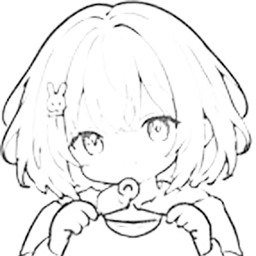
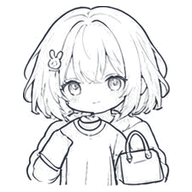
feat: 子分类图标全量替换少女线稿（35 枚）+ 老数据双条件迁移
- 最终版子分类总图（SVG 内嵌位图 1438x1885）→ sharp 管线切片 35 枚：
  行/列墨迹投影定位 + 人工行界定界（标签文字剥离）、白转透明、
  按墨迹紧裁等比铺满 192 画布 94%（人物铺满画框不留白）
- iconRegistry GIRL_KEYS 28→59 键（并入 35 子键）；seed 35 个子分类默认值
  svg:* → girl:*（人情往来子项/利息等无总图项保留线性图标）
- store 迁移扩展：子分类名称+旧默认图标双条件（svg:bowl 午餐/晚餐靠名称区分；
  存储字段 children——首版误写 subs 未生效已修），用户自定义图标不动
- 修复本轮误删上轮已提交的 28 枚 PNG（git checkout 恢复后 59 枚共存）
- 单测 408 全绿（girl 断言更新至 59 键+迁移表）；实机验证：记一笔宫格
  子项少女图全量生效，老数据迁移通过；APP_VERSION 3.0→3.1 + package.json 对齐

diff --git a/src/seed.js b/src/seed.js
@@ -10,16 +10,16 @@ function cat(name, icon, color, children = [], custom = false) {
 export function defaultCategories() {
   return {
     expense: [
-      // v3.1 主分类默认少女线稿风（public/girl/<key>.png）；子分类与无匹配项保留 emoji / 线性图标
-      cat('餐饮', "girl:food", PAL[0], [['早餐', "svg:croissant"], ['午餐', "svg:bowl"], ['晚餐', "svg:bowl"], ['饮料', "svg:cup"], ['零食', "svg:cookie"], ['水果', "svg:apple"]]),
-      cat('购物', "girl:shop", PAL[1], [['服饰鞋包', "svg:shoe"], ['日用百货', "svg:roll"], ['数码家电', "svg:phone"], ['美妆护肤', "svg:lipstick"], ['网购', "svg:box"]]),
-      cat('交通出行', "girl:transport", PAL[2], [['公交地铁', "svg:train"], ['打车', "svg:transport"], ['加油', "svg:fuel"], ['火车机票', "svg:travel"], ['停车', "svg:parking"]]),
-      cat('居家生活', "girl:home", PAL[3], [['房租', "svg:home"], ['水电燃气', "svg:droplet"], ['物业', "svg:building"], ['通讯', "svg:signal"], ['装修', "svg:tools"]]),
-      cat('娱乐休闲', "girl:game", PAL[4], [['电影', "svg:film"], ['游戏', "svg:game"], ['旅行', "svg:beach"], ['订阅', "svg:tv"], ['运动', "svg:ball"]]),
-      cat('医疗健康', "girl:medical", PAL[5], [['挂号门诊', "svg:medical"], ['药品', "svg:pill"], ['体检', "svg:stethoscope"]]),
-      cat('教育学习', "girl:edu", PAL[6], [['书籍', "svg:books"], ['培训', "svg:edu"], ['学费', "svg:edu"], ['知识付费', "svg:bill"]]),
+      // v3.1 主分类+子分类默认少女线稿风（public/girl/<key>.png）；无总图项（人情往来子项/利息等）保留线性图标
+      cat('餐饮', "girl:food", PAL[0], [['早餐', "girl:breakfast"], ['午餐', "girl:lunch"], ['晚餐', "girl:dinner"], ['饮料', "girl:drink"], ['零食', "girl:snack"], ['水果', "girl:fruit"]]),
+      cat('购物', "girl:shop", PAL[1], [['服饰鞋包', "girl:clothes"], ['日用百货', "girl:daily"], ['数码家电', "girl:digital"], ['美妆护肤', "girl:beauty"], ['网购', "girl:online"]]),
+      cat('交通出行', "girl:transport", PAL[2], [['公交地铁', "girl:bus"], ['打车', "girl:taxi"], ['加油', "girl:fuel"], ['火车机票', "girl:train"], ['停车', "girl:parking"]]),
+      cat('居家生活', "girl:home", PAL[3], [['房租', "girl:rent"], ['水电燃气', "girl:utility"], ['物业', "girl:property"], ['通讯', "girl:comm"], ['装修', "girl:renovate"]]),
+      cat('娱乐休闲', "girl:game", PAL[4], [['电影', "girl:movie"], ['游戏', "girl:game"], ['旅行', "girl:travel"], ['订阅', "girl:subscribe"], ['运动', "girl:sport"]]),
+      cat('医疗健康', "girl:medical", PAL[5], [['挂号门诊', "girl:clinic"], ['药品', "girl:pill"], ['体检', "girl:checkup"]]),
+      cat('教育学习', "girl:edu", PAL[6], [['书籍', "girl:books"], ['培训', "girl:training"], ['学费', "girl:tuition"], ['知识付费', "girl:knowledge"]]),
       cat('人情往来', "girl:gift", PAL[7], [['礼金', "svg:envelope"], ['红包', "svg:salary"], ['请客', "svg:food"], ['慈善', "svg:heart"]]),
-      cat('宠物', "girl:pet", PAL[8], [['宠物食品', "svg:bone"], ['宠物医疗', "svg:pet"]]),
+      cat('宠物', "girl:pet", PAL[8], [['宠物食品', "girl:petfood"], ['宠物医疗', "girl:petcare"]]),
       cat('其他支出', "girl:reimburse", PAL[9]),
     ],
     income: [
@@ -51,6 +51,25 @@ export const LEGACY_DEFAULT_ICONS = {
   './icons/cat/invest.svg': 'invest',
   'svg:reimburse': 'reimburse',
   'svg:sport': 'sport',
+}
+
+// v3.1 子分类少女线稿迁移：子分类名 → [旧默认图标, girl 键]；双条件（名称+旧默认图标同时命中才替换，
+// 用户自定义图标不动；svg:bowl 午餐/晚餐共用旧值，靠名称区分）
+export const LEGACY_SUB_ICONS = {
+  '早餐': ['svg:croissant', 'breakfast'], '午餐': ['svg:bowl', 'lunch'], '晚餐': ['svg:bowl', 'dinner'],
+  '饮料': ['svg:cup', 'drink'], '零食': ['svg:cookie', 'snack'], '水果': ['svg:apple', 'fruit'],
+  '服饰鞋包': ['svg:shoe', 'clothes'], '日用百货': ['svg:roll', 'daily'], '数码家电': ['svg:phone', 'digital'],
+  '美妆护肤': ['svg:lipstick', 'beauty'], '网购': ['svg:box', 'online'],
+  '公交地铁': ['svg:train', 'bus'], '打车': ['svg:transport', 'taxi'], '加油': ['svg:fuel', 'fuel'],
+  '火车机票': ['svg:travel', 'train'], '停车': ['svg:parking', 'parking'],
+  '房租': ['svg:home', 'rent'], '水电燃气': ['svg:droplet', 'utility'], '物业': ['svg:building', 'property'],
+  '通讯': ['svg:signal', 'comm'], '装修': ['svg:tools', 'renovate'],
+  '电影': ['svg:film', 'movie'], '游戏': ['svg:game', 'game'], '旅行': ['svg:beach', 'travel'],
+  '订阅': ['svg:tv', 'subscribe'], '运动': ['svg:ball', 'sport'],
+  '挂号门诊': ['svg:medical', 'clinic'], '药品': ['svg:pill', 'pill'], '体检': ['svg:stethoscope', 'checkup'],
+  '书籍': ['svg:books', 'books'], '培训': ['svg:edu', 'training'], '学费': ['svg:edu', 'tuition'],
+  '知识付费': ['svg:bill', 'knowledge'],
+  '宠物食品': ['svg:bone', 'petfood'], '宠物医疗': ['svg:pet', 'petcare'],
 }
 
 export const ACCOUNT_TYPES = [

diff --git a/src/iconRegistry.js b/src/iconRegistry.js
@@ -1040,12 +1040,18 @@ const LEGACY_ICONS = {
 const normalizeLegacy = value => value.replace(/[\uFE0F\u200D]/g, '')
 const NORMALIZED_LEGACY = new Map(Object.entries(LEGACY_ICONS).map(([value, key]) => [normalizeLegacy(value), key]))
 
-// v3.1 少女线稿风图标（public/girl/<key>.png）：key 与 ICON_CATALOG expense/income/func 三组一一对应
+// v3.1 少女线稿风图标（public/girl/<key>.png）：28 主分类/功能键 + 35 子分类键（早餐…宠物医疗）
 export const GIRL_KEYS = new Set([
   'food', 'transport', 'shop', 'home', 'medical', 'edu', 'phone', 'travel',
   'clothes', 'game', 'pet', 'gift', 'sport', 'box',
   'salary', 'bonus', 'invest', 'interest', 'reimburse', 'transfer',
   'bill', 'stats', 'budget', 'account', 'calendar', 'search', 'settings', 'backup',
+  // v3.1 子分类键（子分类总图 35 枚）
+  'breakfast', 'lunch', 'dinner', 'drink', 'snack', 'fruit',
+  'daily', 'digital', 'beauty', 'online', 'bus', 'taxi', 'fuel', 'train', 'parking',
+  'rent', 'utility', 'property', 'comm', 'renovate',
+  'movie', 'subscribe', 'clinic', 'checkup',
+  'training', 'tuition', 'knowledge', 'petfood', 'petcare',
 ])
 export const isGirlIcon = value => typeof value === 'string' && value.startsWith('girl:') && GIRL_KEYS.has(value.slice(5))
 

diff --git a/src/store.jsx b/src/store.jsx
@@ -1,5 +1,5 @@
 import React, { createContext, useContext, useEffect, useMemo, useRef, useState, useCallback } from 'react'
-import { emptyState, demoState, LEGACY_DEFAULT_ICONS } from './seed.js'
+import { emptyState, demoState, LEGACY_DEFAULT_ICONS, LEGACY_SUB_ICONS } from './seed.js'
 import { uid, todayStr, nowTime, nextRunDates, periodOf, netWorth, normalizeTabIconAt, normalizeDiscIconAt } from './utils.js'
 import { blobDel } from './blobdb.js'
 import { syncDailyReminder } from './notify.js'
@@ -104,6 +104,11 @@ export function migrateState(s) {
       for (const c of s.categories[group]) {
         const key = LEGACY_DEFAULT_ICONS[c?.icon]
         if (key) c.icon = 'girl:' + key
+        // v3.1 子分类迁移：名称+旧默认图标双条件命中才换（用户自定义图标不动）；存储字段是 children
+        for (const sub of c.children || []) {
+          const hit = LEGACY_SUB_ICONS[sub?.name]
+          if (hit && sub.icon === hit[0]) sub.icon = 'girl:' + hit[1]
+        }
       }
     }
   }
